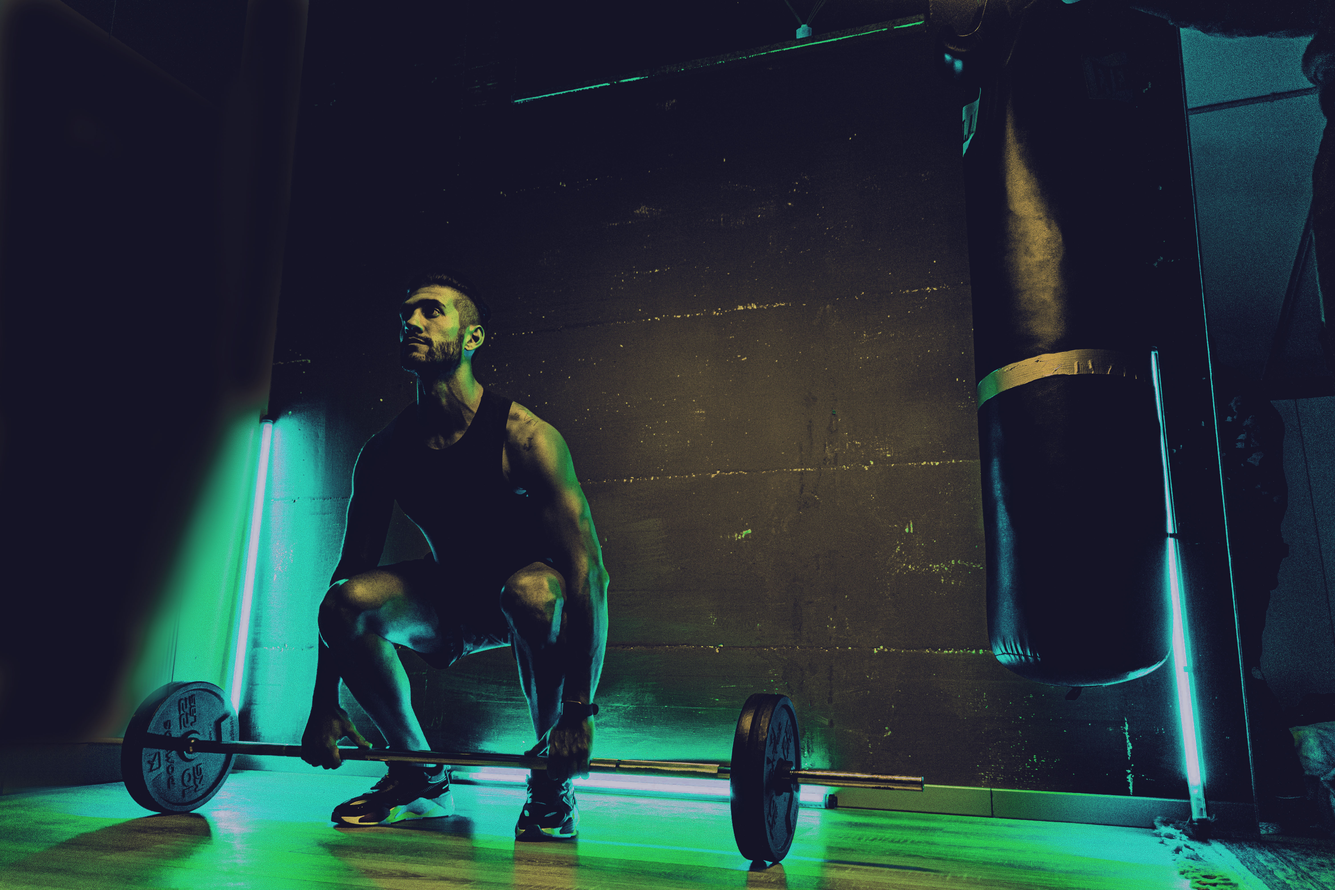
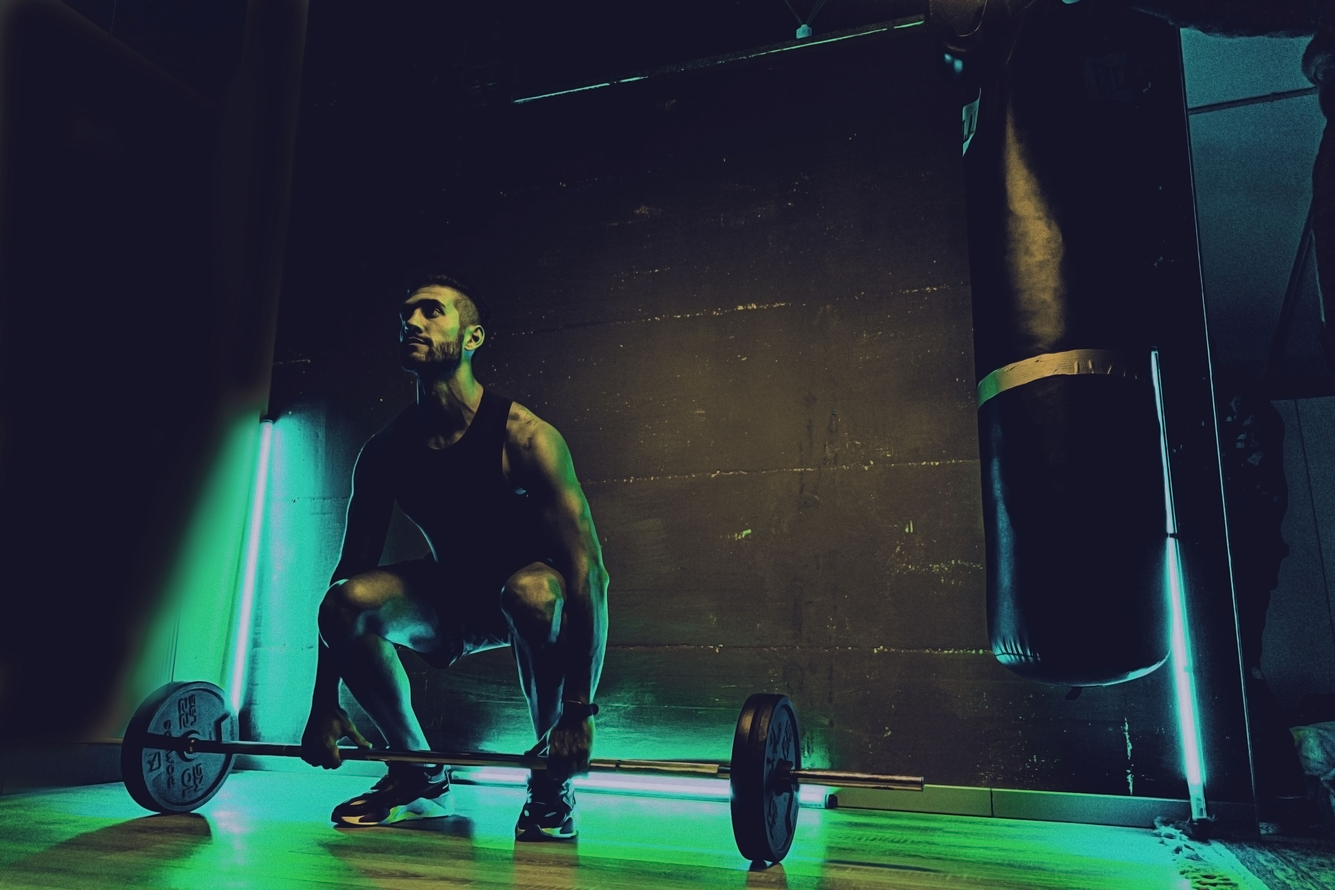
color scheme changed

diff --git a/client/src/index.css b/client/src/index.css
@@ -3,7 +3,7 @@
 
 
 body {
-  background-image: url('./img/fitness-black-green.jpg');
+  background-image: url('./img/fitness-black.jpg');
   background-size:cover;
   background-attachment: fixed;
   font-family: 'Lato', sans-serif; 
@@ -20,7 +20,7 @@ footer {
   height: 1.5em;
   width: 100%;
   color: rgb(255, 255, 255);
-  background-color:rgba(23, 162, 222, 0.761);
+  background-color:rgba(241, 210, 56, 0.761);
   opacity: 100%;
   font-variant: all-small-caps;
   font-size: 16px;
@@ -142,6 +142,7 @@ footer {
 
 .dropdown-menu {
   text-align: center;
+  justify-content: center;
   font-variant: all-small-caps;
   font-size:3vh;
   padding: 0%;
@@ -149,7 +150,8 @@ footer {
 
 
 .dropdown-item {
-  padding: 0vw 8.2vw;
+  text-align: center;
+  padding: 0vw 9.7vw;
   
 }
 
